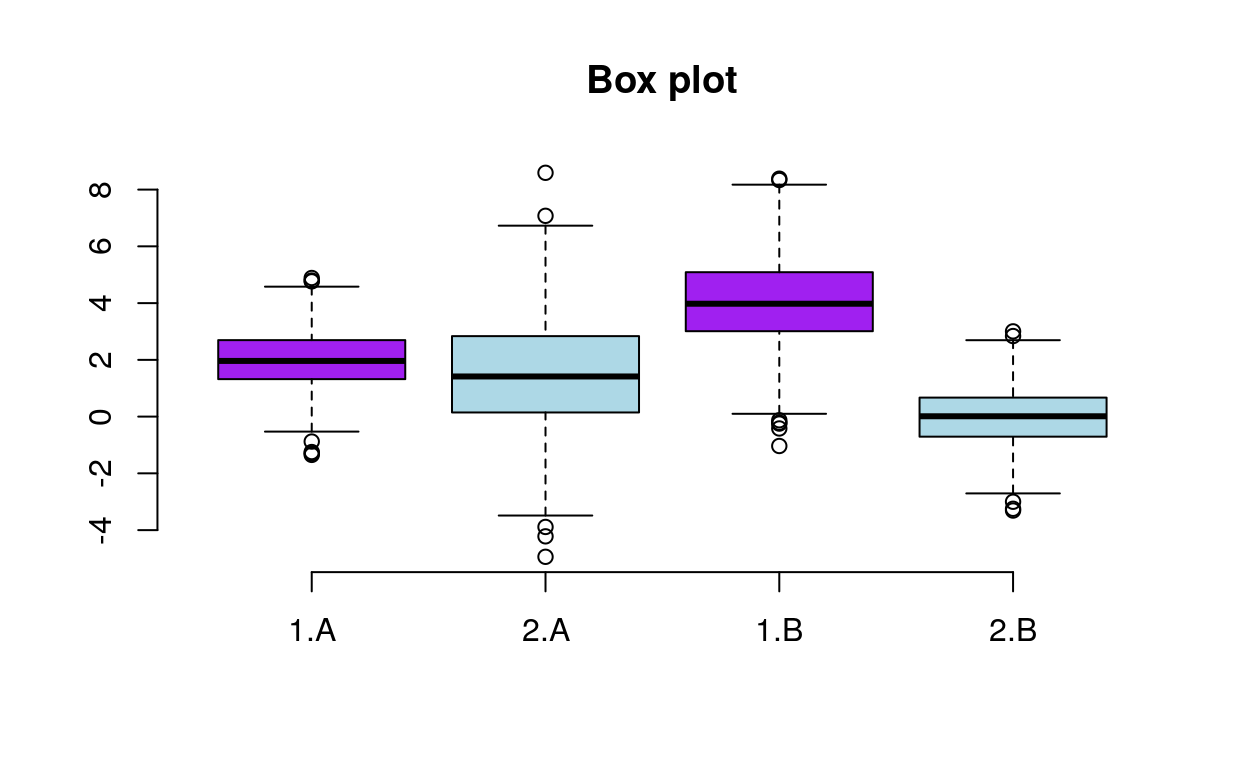
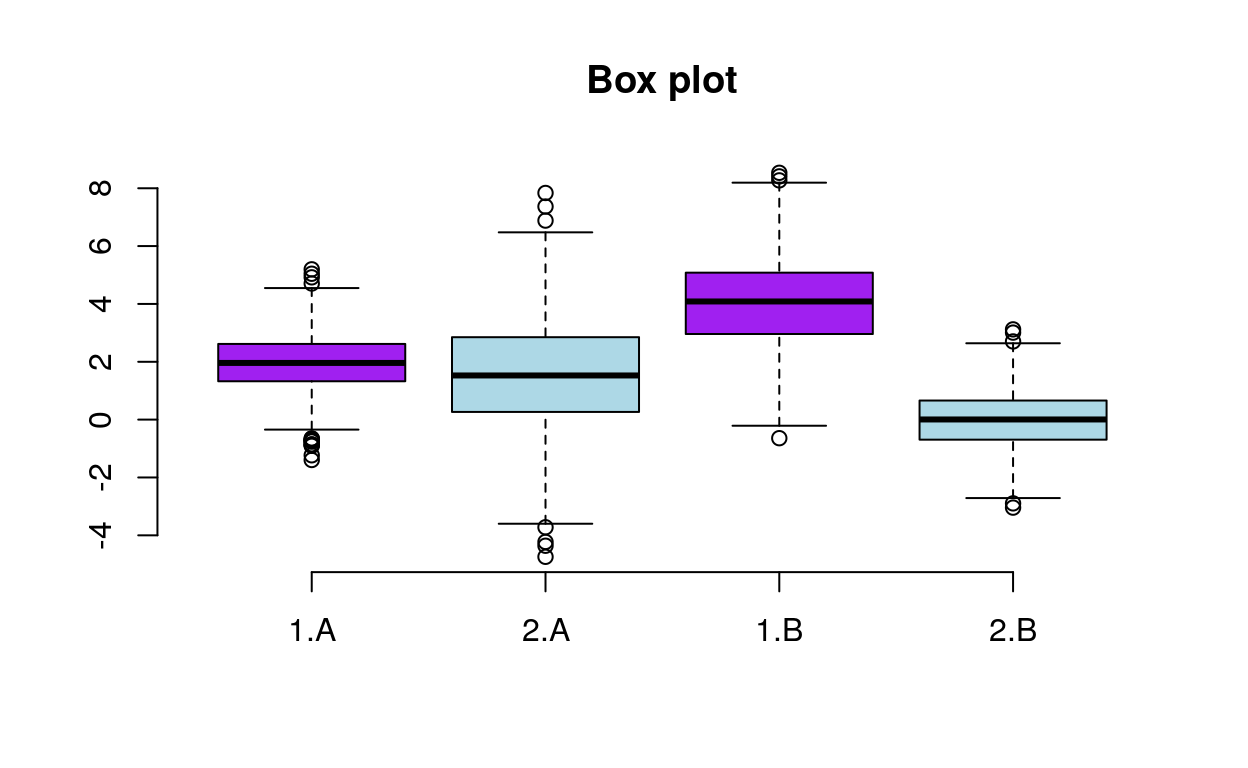
Fix date and set seed

diff --git a/docs/posts/2018-12-23-split-violin-plots/index.html b/docs/posts/2018-12-23-split-violin-plots/index.html
@@ -26,8 +26,8 @@
 <link rel="license" href="https://creativecommons.org/licenses/by/4.0/"/>
 
 <!--  https://schema.org/Article -->
-<meta property="article:published" itemprop="datePublished" content="2018-12-23"/>
-<meta property="article:created" itemprop="dateCreated" content="2018-12-23"/>
+<meta property="article:published" itemprop="datePublished" content="2013-06-24"/>
+<meta property="article:created" itemprop="dateCreated" content="2013-06-24"/>
 <meta name="article:author" content="Maxwell B. Joseph"/>
 
 <!--  https://developers.facebook.com/docs/sharing/webmasters#markup -->
@@ -46,7 +46,7 @@
   <!--radix_placeholder_rmarkdown_metadata-->
 
 <script type="text/json" id="radix-rmarkdown-metadata">
-{"type":"list","attributes":{"names":{"type":"character","attributes":{},"value":["creative_commons","title","description","author","date","output"]}},"value":[{"type":"character","attributes":{},"value":["CC BY"]},{"type":"character","attributes":{},"value":["Split violin plots"]},{"type":"character","attributes":{},"value":["Comparing distributions with split violin plots in R."]},{"type":"list","attributes":{},"value":[{"type":"list","attributes":{"names":{"type":"character","attributes":{},"value":["name","url"]}},"value":[{"type":"character","attributes":{},"value":["Maxwell B. Joseph"]},{"type":"list","attributes":{"names":{"type":"character","attributes":{},"value":[]}},"value":[]}]}]},{"type":"character","attributes":{},"value":["12-23-2018"]},{"type":"list","attributes":{"names":{"type":"character","attributes":{},"value":["radix::radix_article"]}},"value":[{"type":"list","attributes":{"names":{"type":"character","attributes":{},"value":["self_contained"]}},"value":[{"type":"logical","attributes":{},"value":[false]}]}]}]}
+{"type":"list","attributes":{"names":{"type":"character","attributes":{},"value":["creative_commons","title","description","author","date","output"]}},"value":[{"type":"character","attributes":{},"value":["CC BY"]},{"type":"character","attributes":{},"value":["Split violin plots"]},{"type":"character","attributes":{},"value":["Comparing distributions with split violin plots in R."]},{"type":"list","attributes":{},"value":[{"type":"list","attributes":{"names":{"type":"character","attributes":{},"value":["name","url"]}},"value":[{"type":"character","attributes":{},"value":["Maxwell B. Joseph"]},{"type":"list","attributes":{"names":{"type":"character","attributes":{},"value":[]}},"value":[]}]}]},{"type":"character","attributes":{},"value":["06-24-2013"]},{"type":"list","attributes":{"names":{"type":"character","attributes":{},"value":["radix::radix_article"]}},"value":[{"type":"list","attributes":{"names":{"type":"character","attributes":{},"value":["self_contained"]}},"value":[{"type":"logical","attributes":{},"value":[false]}]}]}]}
 </script>
 <!--/radix_placeholder_rmarkdown_metadata-->
   
@@ -1288,7 +1288,7 @@ document.addEventListener('DOMContentLoaded', function() {
 <!--radix_placeholder_front_matter-->
 
 <script id="distill-front-matter" type="text/json">
-{"title":"Split violin plots","description":"Comparing distributions with split violin plots in R.","authors":[{"author":"Maxwell B. Joseph","authorURL":{},"affiliation":"&nbsp;","affiliationURL":"#"}],"publishedDate":"2018-12-23T00:00:00.000-07:00","citationText":"Joseph, 2018"}
+{"title":"Split violin plots","description":"Comparing distributions with split violin plots in R.","authors":[{"author":"Maxwell B. Joseph","authorURL":{},"affiliation":"&nbsp;","affiliationURL":"#"}],"publishedDate":"2013-06-24T00:00:00.000-06:00","citationText":"Joseph, 2013"}
 </script>
 
 <!--/radix_placeholder_front_matter-->
@@ -1317,7 +1317,7 @@ document.addEventListener('DOMContentLoaded', function() {
 <div class="d-byline">
   Maxwell B. Joseph true 
   
-<br/>12-23-2018
+<br/>06-24-2013
 </div>
 
 <div class="d-article">

diff --git a/_posts/2018-12-23-split-violin-plots/split-violin-plots.html b/_posts/2018-12-23-split-violin-plots/split-violin-plots.html
@@ -25,8 +25,8 @@
   
   
   <!--  https://schema.org/Article -->
-  <meta property="article:published" itemprop="datePublished" content="2018-12-23"/>
-  <meta property="article:created" itemprop="dateCreated" content="2018-12-23"/>
+  <meta property="article:published" itemprop="datePublished" content="2013-06-24"/>
+  <meta property="article:created" itemprop="dateCreated" content="2013-06-24"/>
   <meta name="article:author" content="Maxwell B. Joseph"/>
   
   <!--  https://developers.facebook.com/docs/sharing/webmasters#markup -->
@@ -44,7 +44,7 @@
   <!--radix_placeholder_rmarkdown_metadata-->
   
   <script type="text/json" id="radix-rmarkdown-metadata">
-  {"type":"list","attributes":{"names":{"type":"character","attributes":{},"value":["title","description","author","date","output"]}},"value":[{"type":"character","attributes":{},"value":["Split violin plots"]},{"type":"character","attributes":{},"value":["Comparing distributions with split violin plots in R.\n"]},{"type":"list","attributes":{},"value":[{"type":"list","attributes":{"names":{"type":"character","attributes":{},"value":["name","url"]}},"value":[{"type":"character","attributes":{},"value":["Maxwell B. Joseph"]},{"type":"list","attributes":{"names":{"type":"character","attributes":{},"value":[]}},"value":[]}]}]},{"type":"character","attributes":{},"value":["12-23-2018"]},{"type":"list","attributes":{"names":{"type":"character","attributes":{},"value":["radix::radix_article"]}},"value":[{"type":"list","attributes":{"names":{"type":"character","attributes":{},"value":["self_contained"]}},"value":[{"type":"logical","attributes":{},"value":[false]}]}]}]}
+  {"type":"list","attributes":{"names":{"type":"character","attributes":{},"value":["title","description","author","date","output"]}},"value":[{"type":"character","attributes":{},"value":["Split violin plots"]},{"type":"character","attributes":{},"value":["Comparing distributions with split violin plots in R.\n"]},{"type":"list","attributes":{},"value":[{"type":"list","attributes":{"names":{"type":"character","attributes":{},"value":["name","url"]}},"value":[{"type":"character","attributes":{},"value":["Maxwell B. Joseph"]},{"type":"list","attributes":{"names":{"type":"character","attributes":{},"value":[]}},"value":[]}]}]},{"type":"character","attributes":{},"value":["06-24-2013"]},{"type":"list","attributes":{"names":{"type":"character","attributes":{},"value":["radix::radix_article"]}},"value":[{"type":"list","attributes":{"names":{"type":"character","attributes":{},"value":["self_contained"]}},"value":[{"type":"logical","attributes":{},"value":[false]}]}]}]}
   </script>
   <!--/radix_placeholder_rmarkdown_metadata-->
   
@@ -942,7 +942,7 @@
 <!--radix_placeholder_front_matter-->
 
 <script id="distill-front-matter" type="text/json">
-{"title":"Split violin plots","description":"Comparing distributions with split violin plots in R.","authors":[{"author":"Maxwell B. Joseph","authorURL":{},"affiliation":"&nbsp;","affiliationURL":"#"}],"publishedDate":"2018-12-23T00:00:00.000-07:00","citationText":"Joseph, 2018"}
+{"title":"Split violin plots","description":"Comparing distributions with split violin plots in R.","authors":[{"author":"Maxwell B. Joseph","authorURL":{},"affiliation":"&nbsp;","affiliationURL":"#"}],"publishedDate":"2013-06-24T00:00:00.000-06:00","citationText":"Joseph, 2013"}
 </script>
 
 <!--/radix_placeholder_front_matter-->
@@ -959,7 +959,7 @@
 <div class="d-byline">
   Maxwell B. Joseph true 
   
-<br/>12-23-2018
+<br/>06-24-2013
 </div>
 
 <div class="d-article">

diff --git a/docs/index.html b/docs/index.html
@@ -1621,7 +1621,7 @@ function init_posts_list() {
 <a href="posts/2018-12-23-split-violin-plots/" class="post-preview">
 <script class="post-metadata" type="text/json">{"categories":[]}</script>
 <div class="metadata">
-<div class="publishedDate">Dec. 23, 2018</div>
+<div class="publishedDate">June 24, 2013</div>
 </div>
 <div class="thumbnail">
 <img data-src="posts/2018-12-23-split-violin-plots/split-violin-plots_files/figure-html5/make-boxplot-1.png"/>
